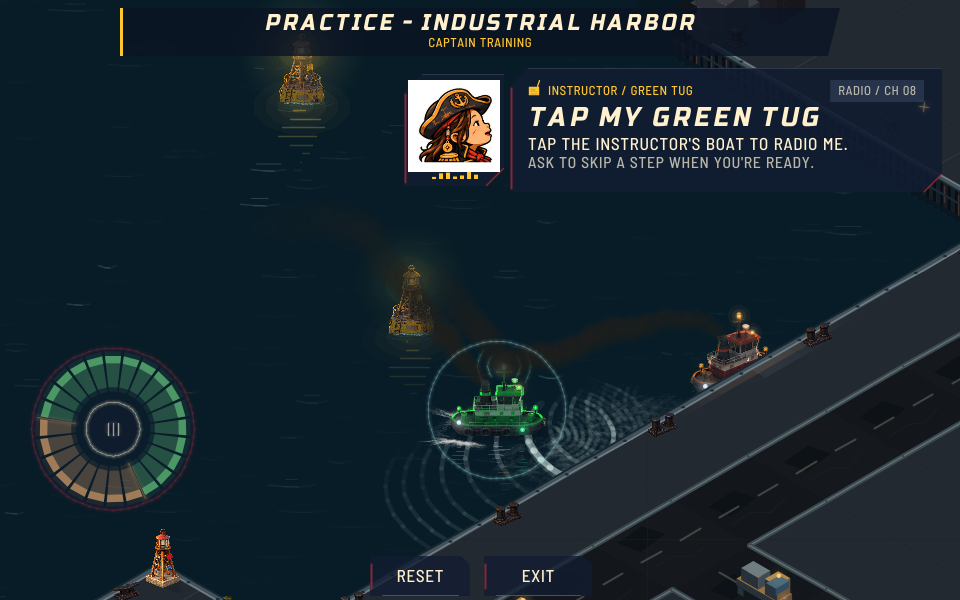
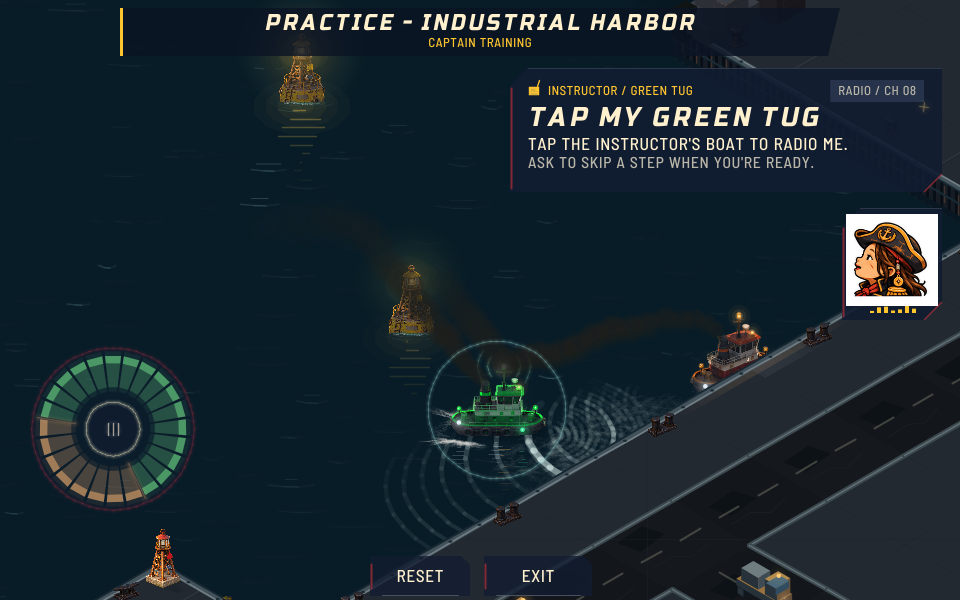
Anchor instructor portrait to outer right screen edge

Changed region(s): [[0.875, 0.33, 1.0, 0.54], [0.4062, 0.12, 0.5312, 0.3]]

diff --git a/tests/com/bargeboss/game/CoreTest.java b/tests/com/bargeboss/game/CoreTest.java
@@ -183,7 +183,7 @@ public final class CoreTest {
         PersistentBargeTest.run();
         PhysicalBerthsTest.run();
         // Title-derived UI palette/geometry; reviewed draw-only changes, simulation/input unchanged.
-        check(Parity.signature().equals("fc647b8f:2:1350"),"canonical replay changed; review parity before updating baseline: "+Parity.signature());
+        check(Parity.signature().equals("55db364f:2:1350"),"canonical replay changed; review parity before updating baseline: "+Parity.signature());
         System.out.println(assertions+" assertions passed; bounded player delivered "+g.delivered+", score "+g.score+", hull "+g.hull);
         System.out.println("Replay signature: "+Parity.signature());
     }

diff --git a/core/com/bargeboss/game/SpeakerPortrait.java b/core/com/bargeboss/game/SpeakerPortrait.java
@@ -18,7 +18,9 @@ final class SpeakerPortrait {
         if(!visible(g))return;
         float progress=g.radio.progress(),fade=Math.min(1,Math.min(progress*10,(1-progress)*8))*panelOpen;
         if(fade<=0)return;
-        float size=92,cx=panelX-56,cy=panelY+62;
+        // Reserve the outer right edge below the fixed instruction card.
+        // Never place the speaker between the card and the screen center.
+        float size=92,cx=g.layout.width-68,cy=panelY+124+16+56;
         Painter ink=new OpacityPainter(p,fade);
         PilotGlass.panel(ink,cx-50,cy-56,100,112,PilotGlass.FILL);
         ink.spriteAffine(SpriteAtlas.INSTRUCTOR_PORTRAIT,frame(Math.round(progress*54)),cx,cy-4,

diff --git a/optimization.md b/optimization.md
@@ -4820,3 +4820,13 @@ manifest isolation, map pixel and Vulkan geometry/clip checks. APK installed and
 cold launched Status:ok; previous display timeout restored. Review copied to
 Downloads/Photos, MediaStore 17960 verified. No native pixel capture/performance
 profile or iOS build this round; desktop mirroring review is not device parity.
+
+## 2026-11-21 — portrait at outer screen edge
+User clarified that portraits belong at the screen sides, facing inward.
+Instructor now anchors 18 units from the right edge, 16 below the fixed card,
+rather than to its inner left edge. Facing is always left at this anchor.
+No extra draw work or assets. Reviewed shared 960/1333 exports; speaker/timing
+checks pass. Canonical drawing trace updated to 55db364f:2:1350 after review.
+Full Android checks/build passed (out/instructor-edge-build.log). Installed and
+cold launched Status:ok, restored display timeout. Preview registered as
+MediaStore 17962. Desktop visual review only; iOS not built this round.

diff --git a/docs/art-studies/instructor-portrait-v1/README.md b/docs/art-studies/instructor-portrait-v1/README.md
@@ -9,7 +9,9 @@ Preserve original canvas and white portrait matte; no generated replacement art.
 SpeakerPortrait owns speaker gating, frame timing and screen-center facing.
 The authored face points right; a negative shared affine X basis mirrors it
 when its center is on the right half of the display. No host-specific animation.
-It draws outside the instruction content wipe, without shifting the fixed panel.
+It sits 18 units from the right screen edge, 16 below the instruction card,
+always facing left toward screen center. It draws outside the instruction content
+wipe, without shifting the fixed panel or obscuring its text.
 The instructor portrait does not stand in for player or bridge transmissions.
 Tutorial preparation includes the atlas; other locations do not load it.
 
